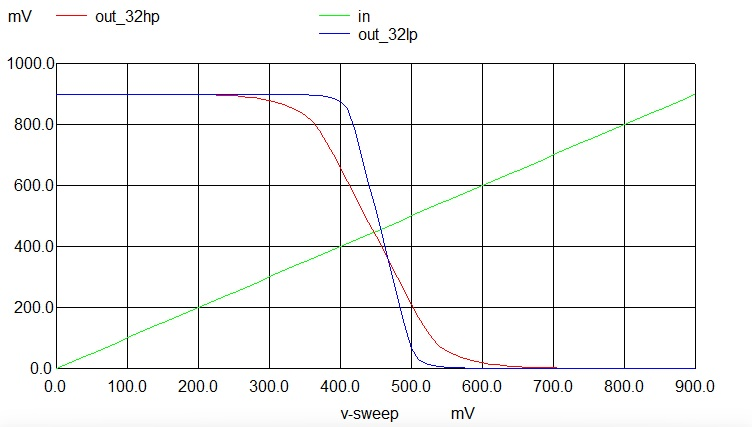
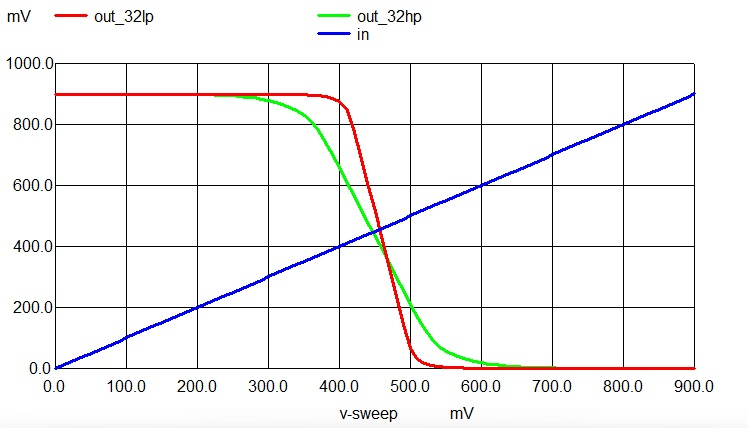
feat: arrumando plots

diff --git a/README.md b/README.md
@@ -41,4 +41,9 @@ ex:
     .save all @R2[p] @R3[p] @R1[p]
  ```
 
+Transformar o fundo preto em branco e aumentar o tamanho da linha:
 
+```
+    set color0=white
+    set xbrushwidth=3
+```
